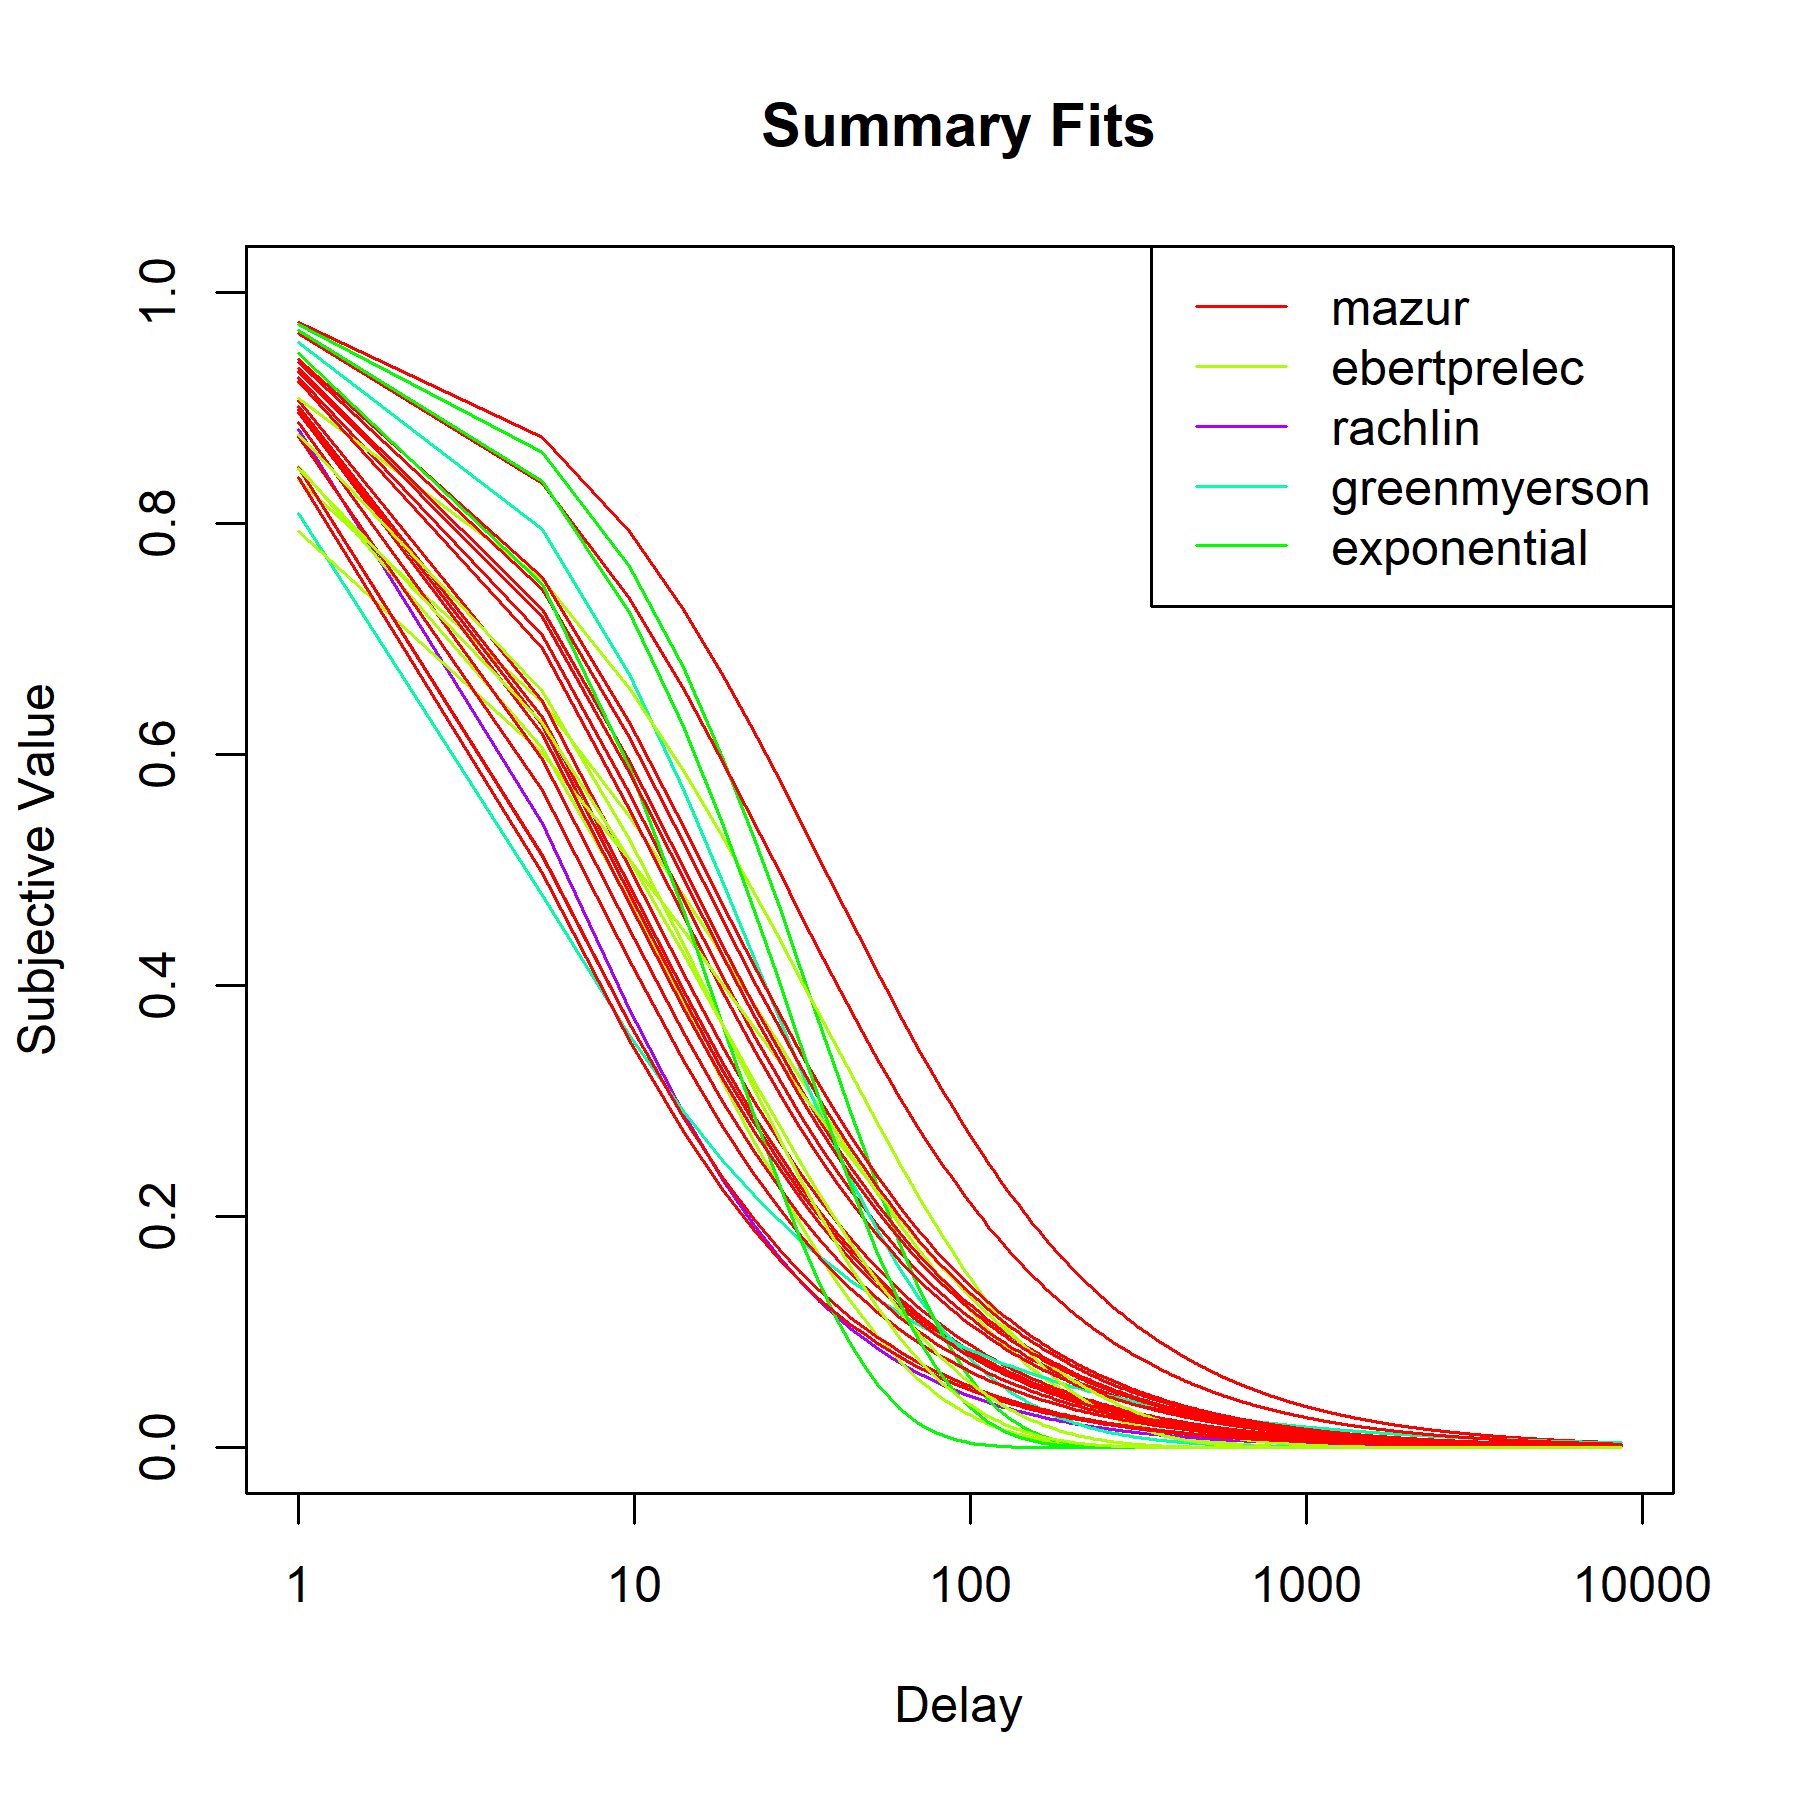
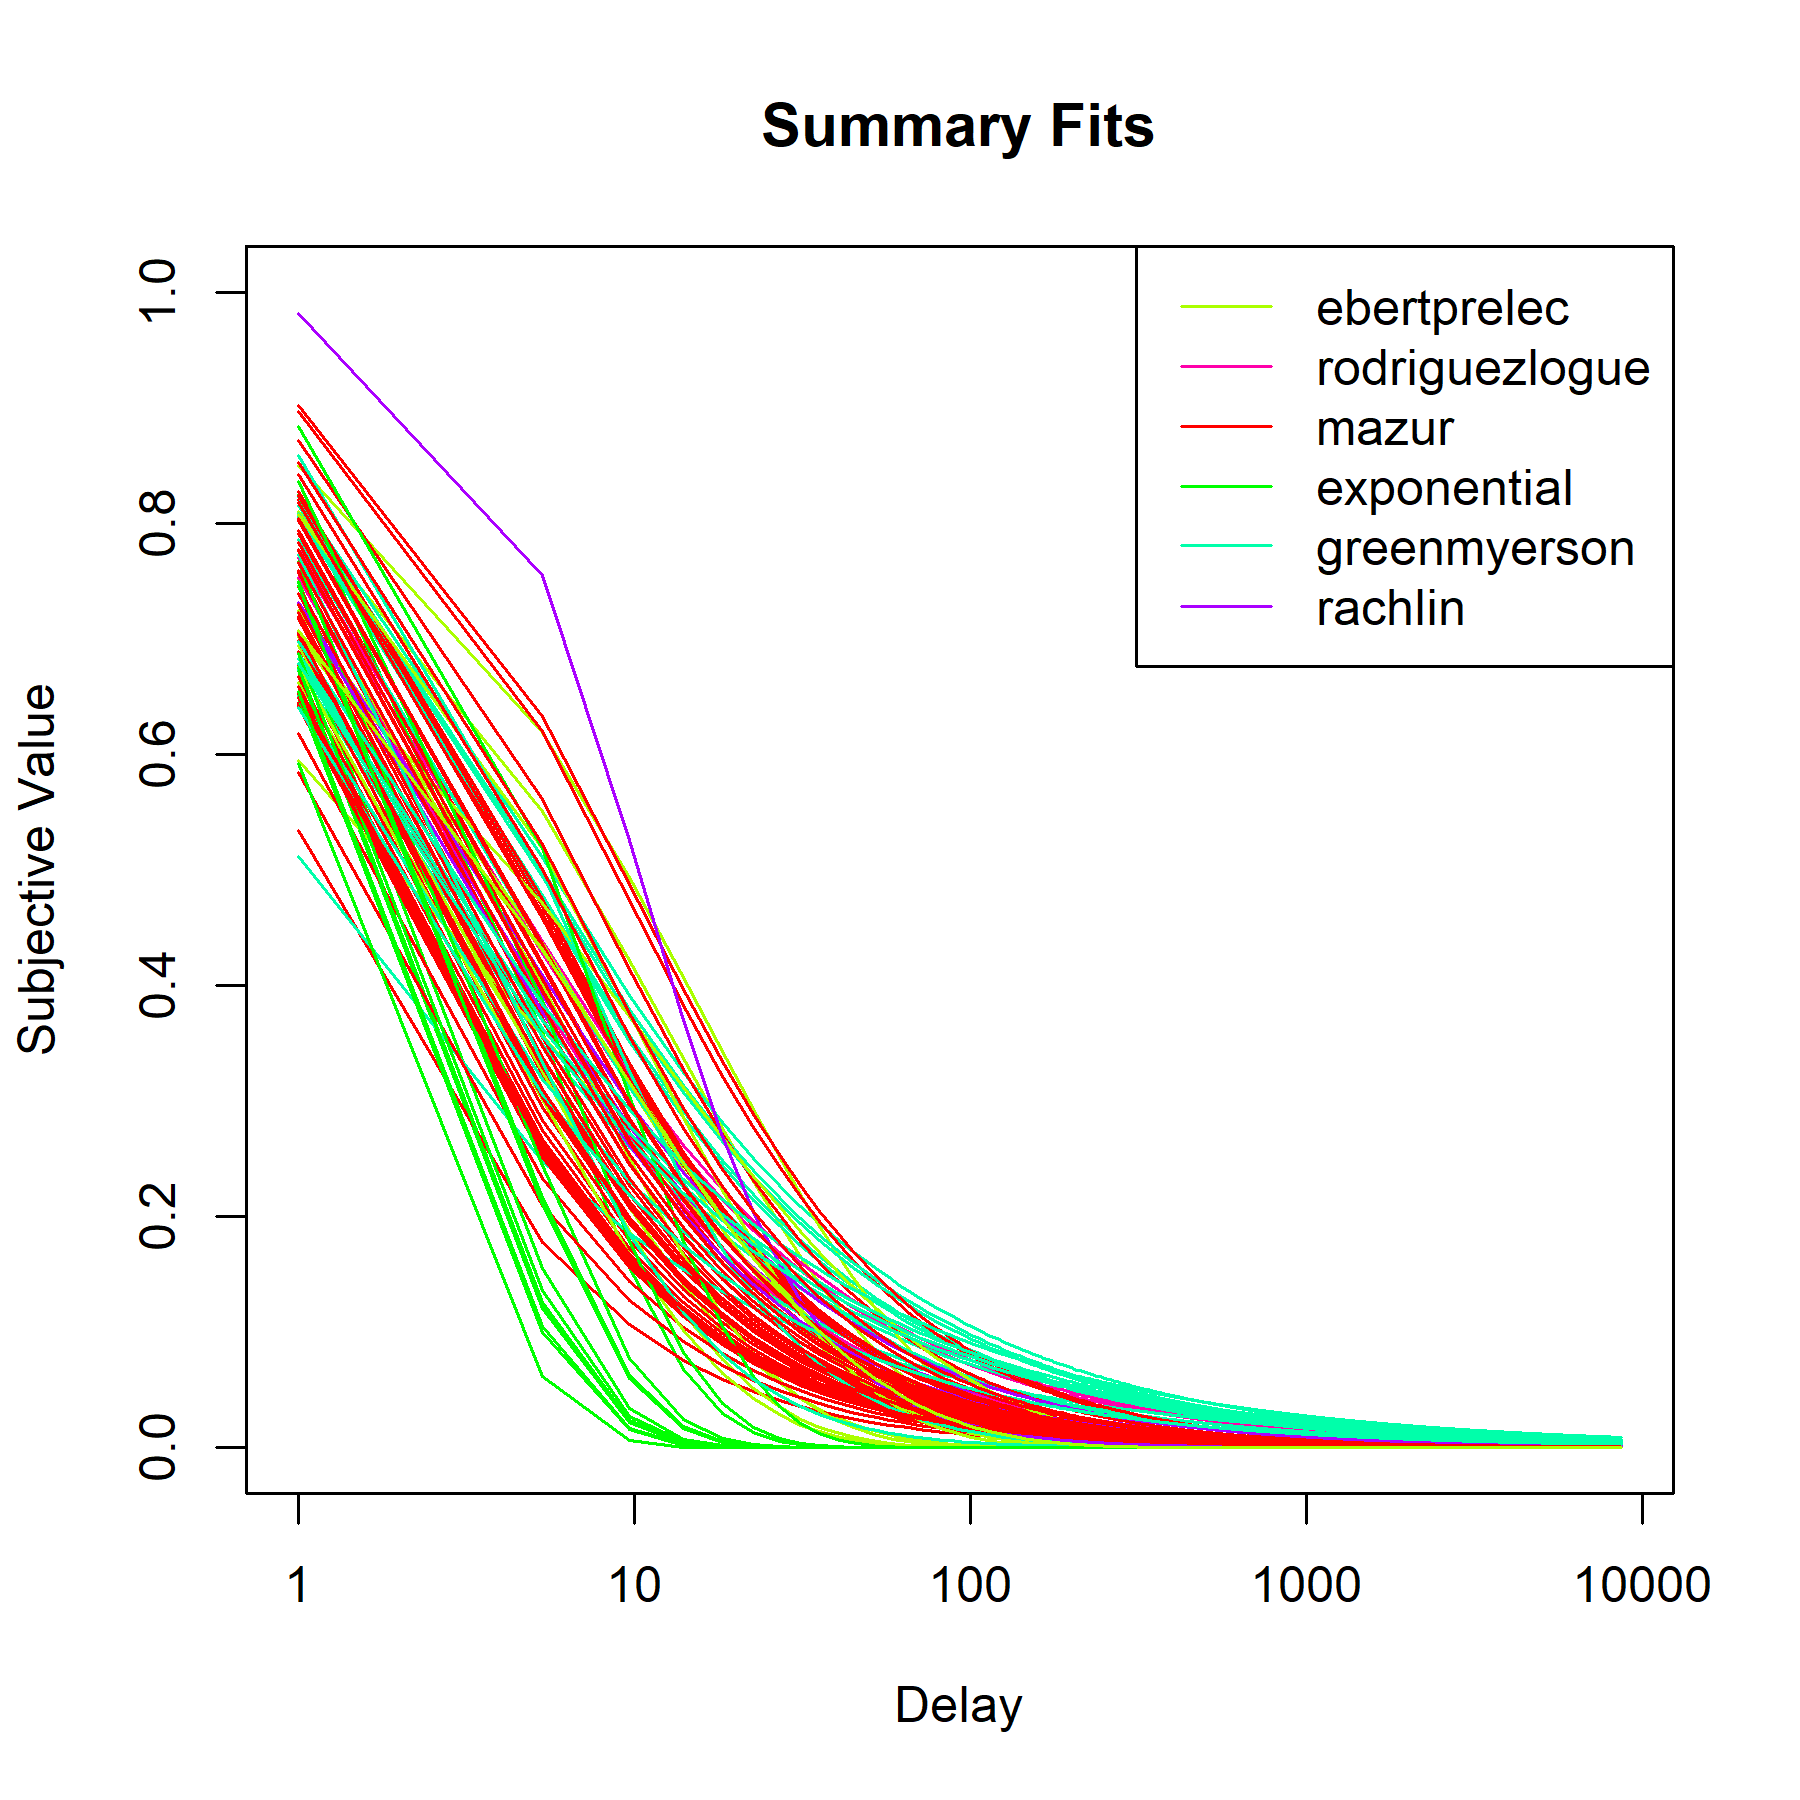
Update multi model eval, more n

Changed region(s): [[0.1556, 0.1867, 0.9022, 0.8089], [0.7156, 0.1556, 0.9333, 0.3733], [0.6222, 0.1556, 0.6533, 0.3422]]

diff --git a/README.md b/README.md
@@ -327,10 +327,9 @@ Questions? Suggestions for features? [sgilroy1\@lsu.edu](mailto:sgilroy1@lsu.edu
 
 -   ~~Modeling options: individual (default)~~
 -   Modeling options: pooled (fit to group)
--   Restore Screening Procedures
+-   ~~Restore Screening Procedures~~
 -   ~~Plotting tools (corresponding with modeling options)~~
 
 ## License
 
 GPL Version \>= 2
-
